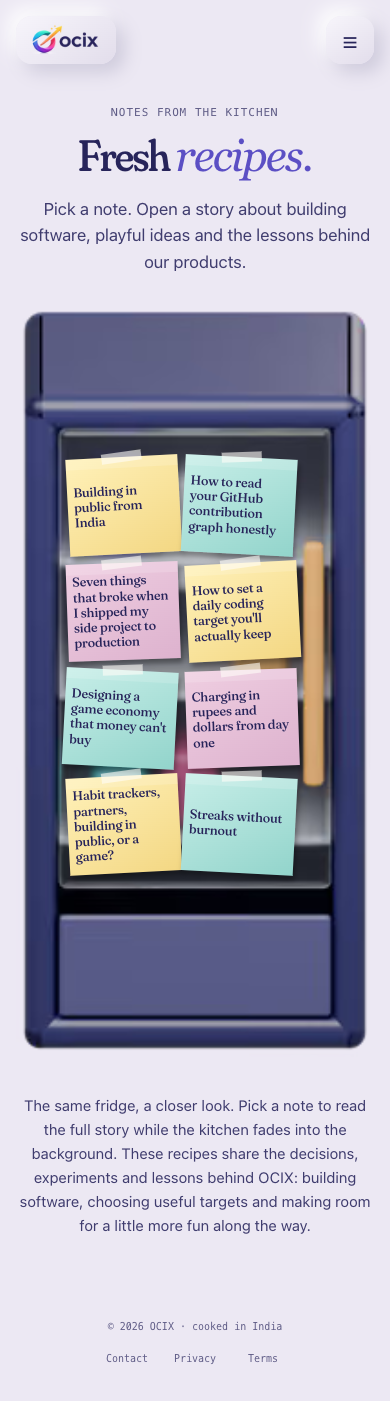
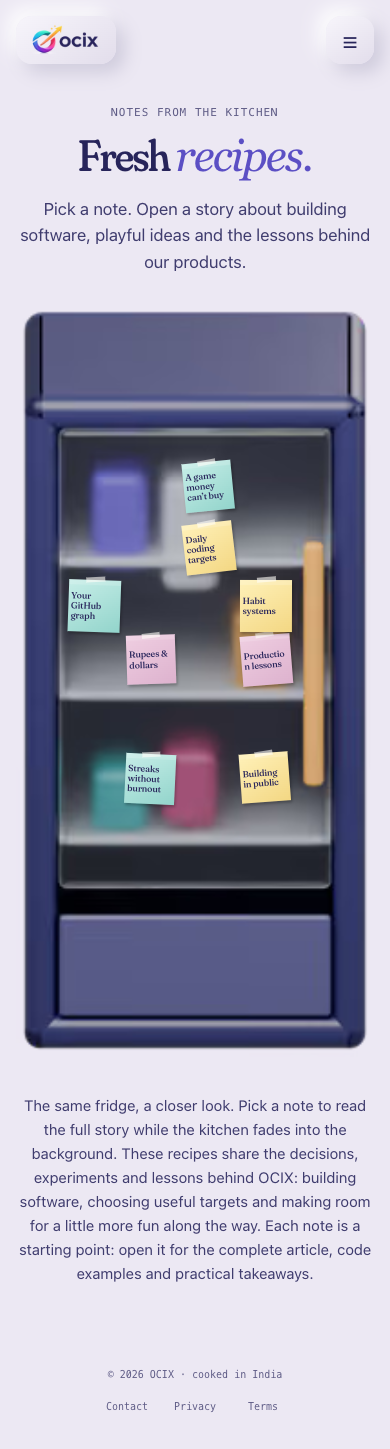
Scatter smaller recipe notes across the fridge

diff --git a/src/app/pages.tsx b/src/app/pages.tsx
@@ -37,7 +37,7 @@ function OriginalPageContent({ path }: { path: string }) {
     case '/contact': return <article className="document wrap"><p className="eyebrow">A direct line</p><h1>Contact OCIX.</h1><p className="document-lead">For support, feedback and questions about OCIX, get in touch here.</p><ContactButtons/><h2>Support and feedback</h2><p>For a website problem, include the URL, the action you tried and what happened. For Vigilante support, mention the relevant screen and the time of the problem, including your time zone. A screenshot can help if it does not reveal private information.</p><p>Never send passwords, API keys, payment card details, GitHub tokens or private source code. If account details are necessary to investigate, keep the first message to the minimum needed to identify the issue. There is no guaranteed response time listed here.</p><h2>Privacy and corrections</h2><p>For a privacy question or complaint, email the same address with “Privacy” in the subject. This address also handles privacy requests and corrections. Describe the request and the website or product it concerns. See the <a href="/privacy">website privacy policy</a> for the distinction between this site and the Vigilante app.</p><h2>Follow the studio</h2><p>Follow OCIX on X, Instagram and Reddit for updates from the kitchen. For account and payment support, email us so we can keep the conversation private.</p></article>;
     case '/privacy': return <article className="document wrap"><p className="eyebrow">Updated 4 October 2026</p><h1>Website privacy policy.</h1><p className="document-lead">This policy covers ocix.in, operated by Vishal Pandey in India under the OCIX brand.</p><h2>Which site this policy covers</h2><p>This website explains OCIX and its products. Browsing it does not create a Vigilante account or connect a GitHub repository. Vigilante’s account, GitHub, game and payment data are covered by the <a href="https://myvigilante.ocix.in/privacy">Vigilante app privacy policy</a>. The marketing site at vigilante.ocix.in also loads its own analytics and may display ads on content pages.</p><h2>Website delivery and analytics</h2><p>Hosting services process technical request information needed to deliver the site, such as an IP address, browser information, requested URL and request time. The website includes Google Tag Manager, which can load analytics tags configured by the operator, including Google Analytics. Analytics can use cookies or similar identifiers to understand page visits and usage. Google Tag Manager is a tag-loading system, not a description of every tag enabled in the dashboard.</p><p>Vercel Web Analytics is included for website usage measurement. These services may process information on infrastructure outside India. This policy does not claim a specific retention period for provider-managed logs or analytics because their settings and policies control it. Contact the operator for questions about the configuration.</p><h2>Cookies and advertising</h2><p>Google Analytics uses cookies when enabled and permitted. You can block or delete cookies through your browser settings. Google explains its services in <a href="https://policies.google.com/technologies/partner-sites">How Google uses information from sites that use its services</a> and provides an <a href="https://tools.google.com/dlpage/gaoptout">Analytics opt-out browser add-on</a>.</p><p>OCIX is applying for Google AdSense. No display-ad code is enabled on ocix.in as part of this version. If advertising is enabled later on permitted content pages, Google and other advertising providers may use cookies to serve ads based on visits to this and other sites. Personalized-ad choices are available in <a href="https://myadcenter.google.com/">Google My Ad Center</a>; other providers’ choices may be available through <a href="https://www.aboutads.info/choices/">aboutads.info</a>. Required consent messaging must be configured before advertising is activated.</p><h2>Messages you send</h2><p>If you email support@ocix.in, your address and the information you choose to include are used to answer the request, investigate the issue and keep necessary correspondence. Do not send secrets or sensitive personal information. Ask for deletion of correspondence when it is no longer needed; legal obligations or an unresolved dispute may require some records to be retained.</p><h2>Your questions and requests</h2><p>To request access, correction or deletion of information you provided to OCIX, or to raise a grievance, contact Vishal Pandey at <a href="mailto:support@ocix.in">support@ocix.in</a>. State which site and information the request concerns. Verification may be needed before information is disclosed or changed.</p><h2>Links and changes</h2><p>External services have their own privacy policies. Following a product or social link takes you to that service. This policy will be updated when the website’s data practices change; the date above identifies this version.</p></article>;
     case '/terms': return <article className="document wrap"><p className="eyebrow">Updated 4 October 2026</p><h1>Website terms.</h1><p className="document-lead">These terms cover use of ocix.in, operated by Vishal Pandey in India under the OCIX brand.</p><h2>Purpose and operator</h2><p>OCIX is a brand used by an individual founder, not a separately registered company. This website provides product information, links to developer tools and editorial content. Contact the operator at <a href="mailto:support@ocix.in">support@ocix.in</a> for questions about these terms.</p><h2>Product availability</h2><p>Vigilante is available through its linked website and app. DraftShield, GymX and Do It! are in development and are not yet available. Descriptions of those projects explain an intended direction and do not create a promise of release dates, features, downloads or service availability.</p><p>Using the Vigilante app is governed by its <a href="https://myvigilante.ocix.in/terms">app Terms</a>, <a href="https://myvigilante.ocix.in/privacy">Privacy Policy</a> and <a href="https://myvigilante.ocix.in/refunds">Refund Policy</a>. This website does not take payments. Current prices and purchase conditions must be checked in the product before checkout.</p><h2>Using the website responsibly</h2><p>You may browse the site and use its public links. Do not attempt unauthorized access, interfere with delivery of the website, introduce malicious content or use contact channels to send spam. Report an error with the affected URL and enough context to reproduce it, without including secrets or private source code.</p><h2>Articles and public activity tools</h2><p>Articles describe practical approaches, examples and opinions; they do not guarantee productivity, health, moderation or business results. A GitHub audit or roast reflects the public information available to the tool. It is not a complete record of someone’s work or a professional assessment of their ability.</p><p>Choose tools and targets based on your circumstances. A daily habit should support useful work, not encourage meaningless commits or discourage rest. Third-party platforms may change their rules or availability independently of OCIX.</p><h2>Content and external links</h2><p>Website text, artwork and branding belong to their respective owners. You may link to articles and quote short passages with attribution; reproducing whole articles or using the brand to imply an endorsement requires permission. Links to external websites are provided for context and access; those services set their own terms.</p><h2>Errors, interruptions and changes</h2><p>The operator works to keep descriptions accurate, but pages can contain mistakes or become outdated. Report a material error through <a href="/contact">Contact</a>. Availability can be interrupted for maintenance or circumstances outside the operator’s control. These terms do not remove rights or remedies that applicable law gives you.</p><p>Updates to the website or these terms will appear here with a revised date. If a question cannot be resolved through support, applicable legal rights remain available.</p></article>;
-    case '/blog': return <article className="recipes-page wrap"><header><p className="eyebrow">Notes from the kitchen</p><h1>Fresh <em>recipes.</em></h1><p>Pick a note. Open a story about building software, playful ideas and the lessons behind our products.</p></header><RecipeFridge/><p className="fridge-caption">The same fridge, a closer look. Pick a note to read the full story while the kitchen fades into the background. These recipes share the decisions, experiments and lessons behind OCIX: building software, choosing useful targets and making room for a little more fun along the way.</p><ArticleDialog/></article>;
+    case '/blog': return <article className="recipes-page wrap"><header><p className="eyebrow">Notes from the kitchen</p><h1>Fresh <em>recipes.</em></h1><p>Pick a note. Open a story about building software, playful ideas and the lessons behind our products.</p></header><RecipeFridge/><p className="fridge-caption">The same fridge, a closer look. Pick a note to read the full story while the kitchen fades into the background. These recipes share the decisions, experiments and lessons behind OCIX: building software, choosing useful targets and making room for a little more fun along the way. Each note is a starting point: open it for the complete article, code examples and practical takeaways.</p><ArticleDialog/></article>;
     default: return <article className="document wrap"><p className="eyebrow">404 · Page not found</p><h1>That dish isn’t<br/><em>on the menu.</em></h1><p className="document-lead">The address may be incorrect or the page may have moved.</p><p>Explore the <a href="/products/vigilante">served product</a>, browse <a href="/tools">free tools</a>, or <a href="/contact">report a broken link</a>.</p><h2>Find your next stop</h2><p>The kitchen is the home of OCIX, an independent software studio run by Vishal Pandey in India. Every dish has its own place: Vigilante is served, while DraftShield, GymX and Do It! are still cooking. Their product pages explain what is available and what remains an idea in development.</p><p>The Recipes shelf holds practical writing about projects and follow-through. Free tastings let you explore public GitHub activity before choosing a daily commitment. If a link brought you here unexpectedly, send the address to support@ocix.in so the founder can investigate it. You can always return to the kitchen and choose a fresh starting point.</p><a className="button button-lime" href="/">Back to the kitchen →</a></article>;
   }
 }

diff --git a/src/styles/kitchen.css b/src/styles/kitchen.css
@@ -176,12 +176,14 @@ button{font:inherit;color:inherit;cursor:pointer}button:focus-visible{outline:3p
 .recipes-page{max-width:900px;padding:36px 0 64px}.recipes-page>header{text-align:center;margin-bottom:32px}.recipes-page h1{font-size:clamp(44px,6vw,76px);margin:14px 0 18px}.recipes-page>header>p:last-child{font-size:17px}
 .recipe-fridge{position:relative;width:min(560px,100%);aspect-ratio:197/415;margin:0 auto;container-type:inline-size}
 .fridge-art{position:absolute;inset:0}.fridge-art img{width:100%;height:100%}
-.fridge-notes{position:absolute;left:14%;right:21.5%;top:20.5%;bottom:24.5%;display:grid;grid-template-columns:repeat(2,minmax(0,1fr));grid-template-rows:repeat(4,minmax(0,1fr));gap:2.6cqw 2cqw}
-.sticky-note{position:relative;display:flex;align-items:center;justify-content:center;min-width:0;min-height:0;padding:1.7cqw;background:linear-gradient(150deg,#fff1b9,#f3d783);box-shadow:.6cqw 1.3cqw 1.5cqw #0005,inset 0 3cqw 0 #ffffff28;transform:rotate(-3deg);transition:transform .25s,box-shadow .25s;transform-origin:50% 15%;z-index:1;color:var(--ink)}
-.sticky-note:nth-child(3n+2){background:linear-gradient(150deg,#c7eee8,#92d4cb);transform:rotate(3deg)}.sticky-note:nth-child(3n){background:linear-gradient(150deg,#efcee1,#ddb2ce);transform:rotate(-2deg)}
+.fridge-notes{position:absolute;left:14%;right:21.5%;top:20.5%;bottom:24.5%;display:block}
+.sticky-note{position:absolute;width:var(--note-width);aspect-ratio:1;display:flex;align-items:center;justify-content:center;min-width:0;min-height:0;padding:.7cqw;background:linear-gradient(150deg,#fff1b9,#f3d783);box-shadow:.35cqw .6cqw .8cqw #0004,inset 0 1.4cqw 0 #ffffff28;transform:rotate(var(--note-angle));transition:transform .25s,box-shadow .25s;transform-origin:50% 15%;z-index:1;color:var(--ink)}
+.sticky-note:nth-child(3n+2){background:linear-gradient(150deg,#c7eee8,#92d4cb)}.sticky-note:nth-child(3n){background:linear-gradient(150deg,#efcee1,#ddb2ce)}
 .sticky-note::before{content:'';position:absolute;width:36%;height:10%;top:-5%;left:32%;background:#fffdf899;transform:rotate(-5deg)}
-.sticky-note h2,.fridge-miniature .sticky-note{font:500 3.6cqw/1.18 Fraunces,Georgia,serif;letter-spacing:-.025em;overflow-wrap:anywhere}
-.fridge-closeup .sticky-note:hover,.fridge-closeup .sticky-note:focus-visible{transform:rotate(0) scale(1.08);box-shadow:1cqw 2cqw 3cqw #0006;z-index:3}
+.sticky-note h2,.fridge-miniature .sticky-note{font:500 clamp(9px,2cqw,12px)/1.12 Fraunces,Georgia,serif;letter-spacing:-.025em;overflow-wrap:anywhere}
+.fridge-closeup .sticky-note:hover,.fridge-closeup .sticky-note:focus-visible{transform:rotate(0) scale(1.6);box-shadow:.6cqw 1.2cqw 2cqw #0005;z-index:3}
+.fridge-closeup .sticky-note{min-width:44px;min-height:44px}
+.fridge-miniature .sticky-note{font-size:2cqw}
 .fridge-miniature{width:100%;height:100%;margin:0;pointer-events:none}.fridge-miniature .fridge-notes{pointer-events:none}
 .fridge-caption{max-width:580px;margin:36px auto 0;font-size:15px;line-height:1.6;text-align:center}
 .hotspot-fridge{top:78%}

diff --git a/src/app/components/RecipeFridge.tsx b/src/app/components/RecipeFridge.tsx
@@ -1,12 +1,34 @@
+import type { CSSProperties } from 'react';
 import { articles } from '../content';
 
-const noteTitle=(title:string)=>title.split(':')[0].split('?')[0]+(title.includes('?')?'?':'');
+const shortTitles:Record<string,string>={
+ 'building-in-public-from-india':'Building in public',
+ 'read-your-contribution-graph':'Your GitHub graph',
+ 'solo-side-project-production-lessons':'Production lessons',
+ 'daily-commit-target':'Daily coding targets',
+ 'designing-a-game-economy-that-cant-be-bought':'A game money can’t buy',
+ 'charging-in-rupees-and-dollars':'Rupees & dollars',
+ 'accountability-systems-compared':'Habit systems',
+ 'streaks-without-burnout':'Streaks without burnout',
+};
+const noteTitle=(item:typeof articles[number])=>shortTitles[item.slug] || item.title.split(':')[0];
+// A seeded shuffle gives 28 small-note spaces. Both views keep the same scattered layout.
+let seed=73;
+const random=()=>{seed=(Math.imul(seed,1664525)+1013904223)>>>0;return seed/4294967296};
+const slots=Array.from({length:28},(_,i)=>i);
+for(let i=slots.length-1;i>0;i--){const j=Math.floor(random()*(i+1));[slots[i],slots[j]]=[slots[j],slots[i]]}
+const noteStyles=slots.map(slot=>({
+ left:`${1+(slot%4)*24.5+random()*.8}%`,
+ top:`${1+Math.floor(slot/4)*13.9+random()*1.2}%`,
+ '--note-angle':`${random()*14-7}deg`,
+ '--note-width':`${21+random()*1.5}%`,
+} as CSSProperties));
 
 // Both views share the same fridge, note order and placement. Only the close-up has links.
 export function RecipeFridge({ miniature = false }: { miniature?: boolean }) {
   return <div className={`recipe-fridge ${miniature ? 'fridge-miniature' : 'fridge-closeup'}`} style={miniature ? undefined : {viewTransitionName:'fridge'}}>
     <picture className="fridge-art"><source type="image/avif" srcSet="/assets/kitchen/scene-fridge.avif 1x, /assets/kitchen/scene-fridge@2x.avif 2x"/><img src="/assets/kitchen/scene-fridge.webp" srcSet="/assets/kitchen/scene-fridge.webp 1x, /assets/kitchen/scene-fridge@2x.webp 2x" alt={miniature ? '' : 'The kitchen’s navy fridge, with a brass handle, lower freezer drawer and colourful recipe notes on its glass door'} width="197" height="415" fetchPriority="high"/></picture>
-    <div className="fridge-notes" aria-hidden={miniature || undefined}>{articles.map(item=>miniature ? <span className="sticky-note" key={item.slug}>{noteTitle(item.title)}</span> : <a className="sticky-note" data-article-open aria-label={item.title} href={`/blog/${item.slug}`} key={item.slug}><h2>{noteTitle(item.title)}</h2></a>)}</div>
+    <div className="fridge-notes" aria-hidden={miniature || undefined}>{articles.map((item,index)=>miniature ? <span className="sticky-note" style={noteStyles[index%noteStyles.length]} key={item.slug}>{noteTitle(item)}</span> : <a className="sticky-note" style={noteStyles[index%noteStyles.length]} data-article-open aria-label={item.title} href={`/blog/${item.slug}`} key={item.slug}><h2>{noteTitle(item)}</h2></a>)}</div>
   </div>;
 }
 

diff --git a/design/kitchen/fridge-review/README.md b/design/kitchen/fridge-review/README.md
@@ -1,5 +1,7 @@
 # Shared fridge and focused recipe reader
 
+The notes are now small, square and scattered across 28 reserved spaces, with varied angles and sizes. The existing eight notes leave most of the glass visible. Short display titles enlarge on hover or keyboard focus; full article titles remain in accessible labels and the reader. A seeded arrangement keeps both views consistent.
+
 The home fridge and Recipes close-up now share one component, the same navy fridge artwork, the same note placement and the same note order. This retains the recognizable frame, frosted glass door, brass handle and lower freezer drawer. The existing cross-document `fridge` view transition zooms between them, including when Recipes is opened through navigation.
 
 Home notes are decorative children of the single fridge link. They cannot independently open articles. In the close-up, each title-only note is a real link that opens the full article in a focused native dialog, with a blurred backdrop and a short zoom entrance. Escape, the close button and backdrop dismissal restore focus to the selected note. The header stays visible while long articles scroll. Normal article URLs remain available for direct visits, modified clicks, sharing and failed-preview fallbacks.

diff --git a/design/kitchen/QA.md b/design/kitchen/QA.md
@@ -2,6 +2,12 @@
 
 Verified 18 October 2026 against the production static build. No existing tests were edited or removed.
 
+## Smaller, scattered sticky notes
+
+Notes now occupy small square spaces, with varied positions, angles and slight size differences. A seeded 28-space arrangement keeps the home and close-up consistent. The eight published recipes cover less than 35% of the note area at all tested widths. Short titles enlarge on hover/focus, and full titles remain available to assistive technology and in the article reader.
+
+The production build, all 7 existing unit tests and all 32 article-preview checks pass. Current [desktop](fridge-review/fridge-1440.png) and [phone](fridge-review/fridge-390.png) screenshots show the additional space.
+
 ## Shared fridge and article reader
 
 Recipes now zooms into the **same navy fridge** used in the kitchen, with matching sticky-note positions. Home notes are decorative; clicking any part opens the fridge. Close-up notes open articles in a native modal with a blurred backdrop. Article HTML loads on demand, and direct article links remain available. The purple close-button circle and menu-button rectangle are replaced by subtle keyboard-only inset/underline states.
